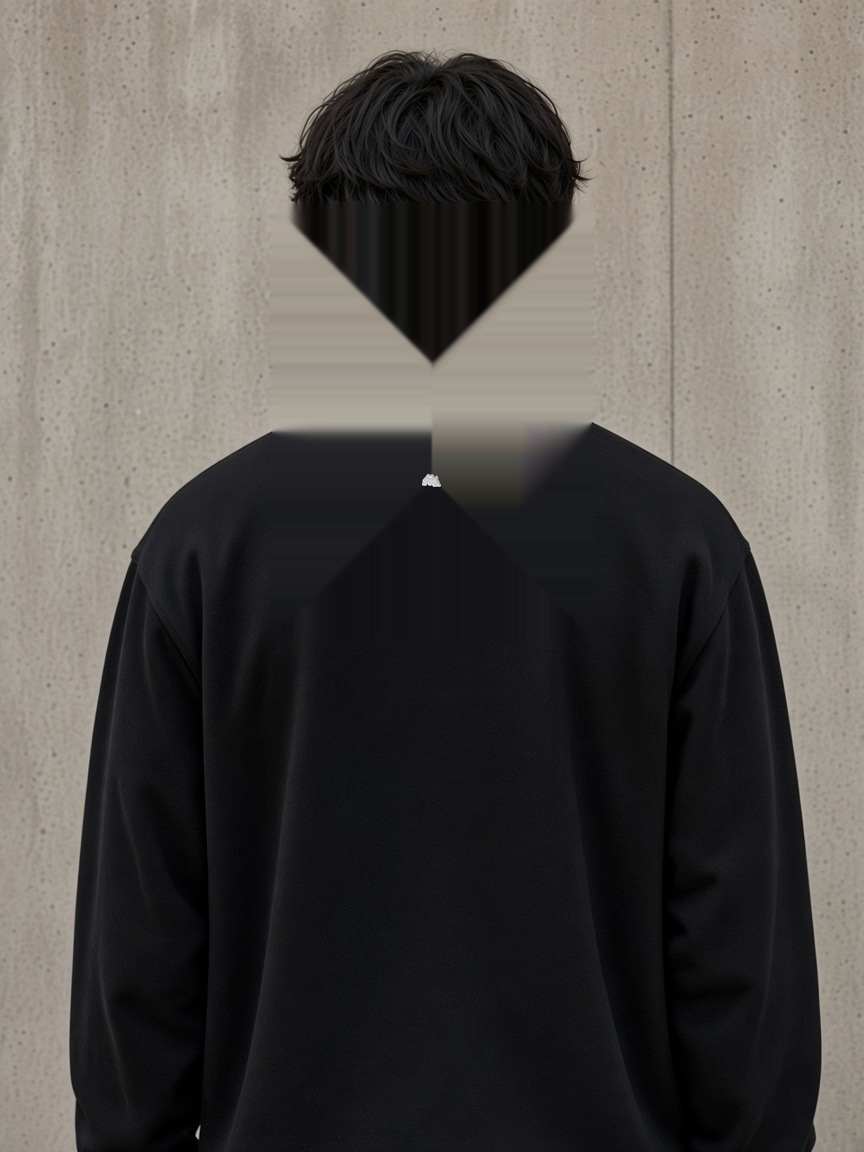
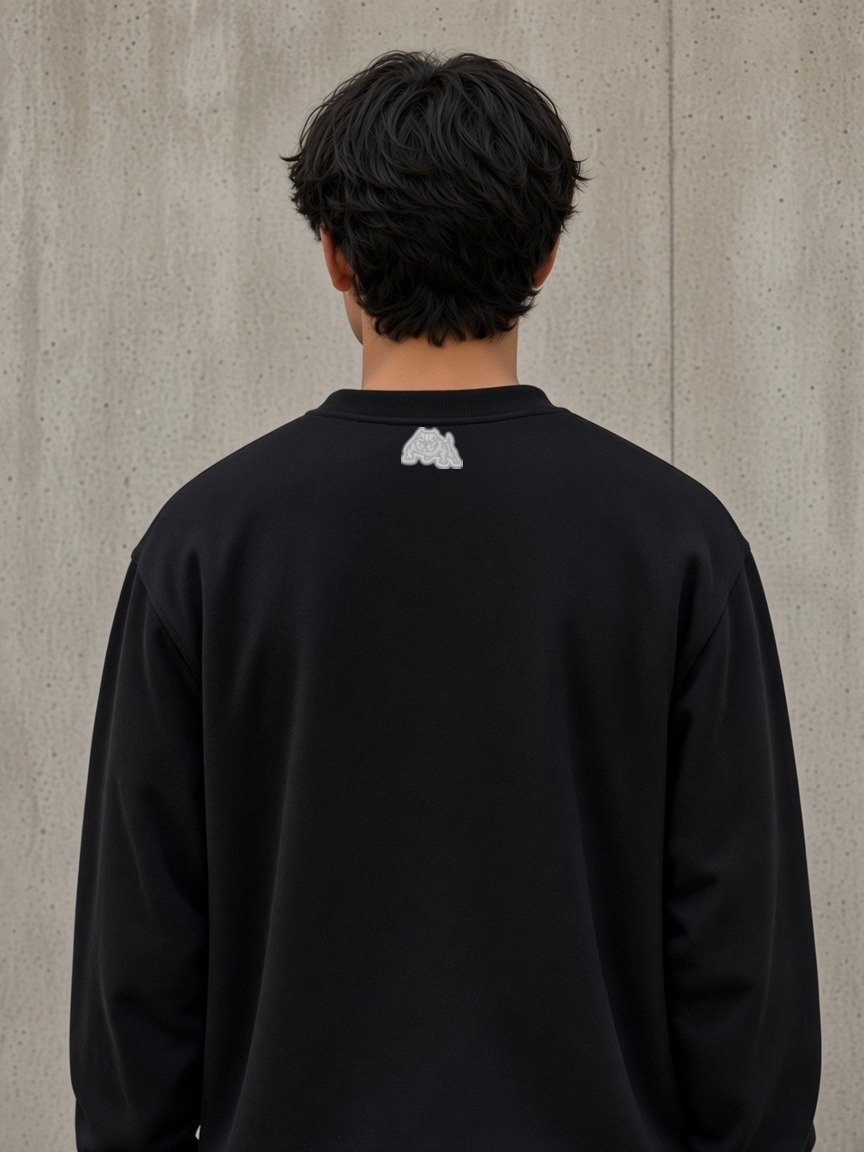
Move BB Crew back mark to high nape/yoke placement.
Match the Photoshop example: centered embroidered bully just below the collar seam, not upper-mid back.

Changed region(s): [[0.3125, 0.1875, 0.6875, 0.4375]]

diff --git a/js/site-config.js b/js/site-config.js
@@ -110,7 +110,7 @@
           { name: 'Black', slug: 'black', hex: '#111111', image: worn('bb-crew', 'black') }
         ],
         views: ['images/lookbook/bb-crew-black-back.jpg'],
-        description: 'Oversized heavyweight crewneck. Front: a large silver interlocking BB. Back: a micro ~1×1″ white embroidered bully mark on the upper-mid back. Black.',
+        description: 'Oversized heavyweight crewneck. Front: a large silver interlocking BB. Back: a micro ~1×1″ white embroidered bully mark high on the nape/yoke — centered, just below the collar seam. Black.',
         image: worn('bb-crew', 'black'),
         fit: 'cover',
         featured: true
